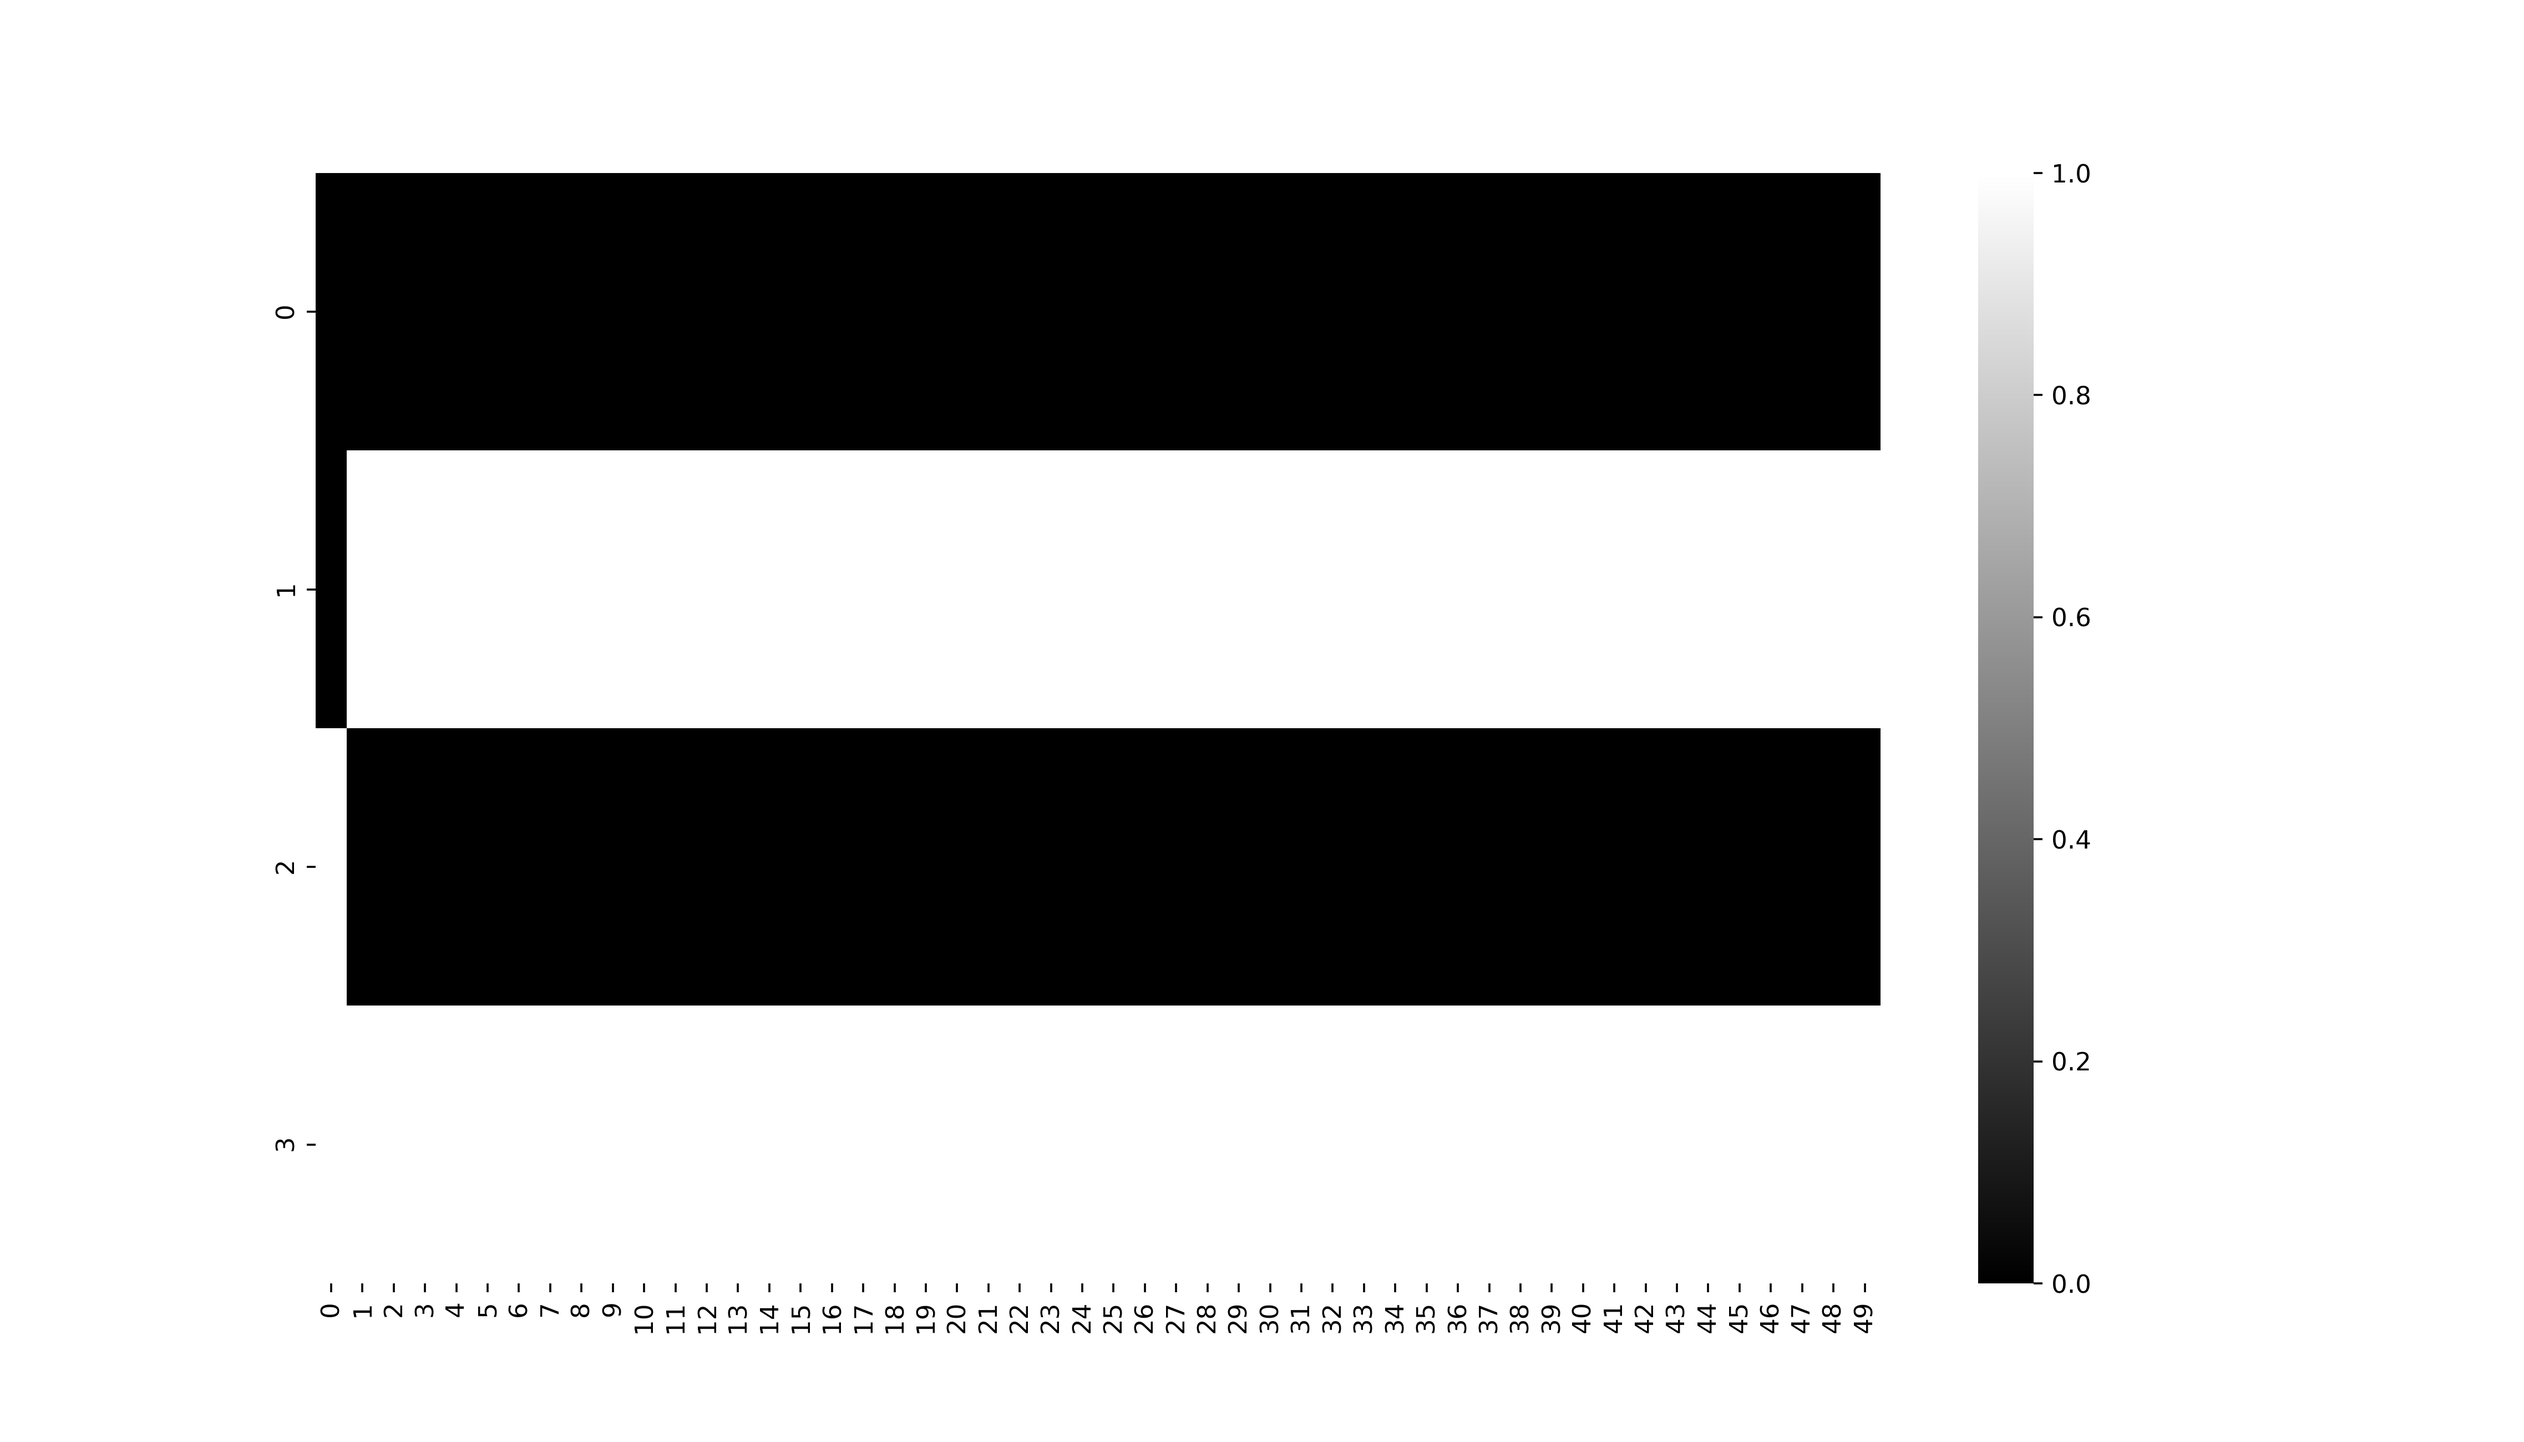
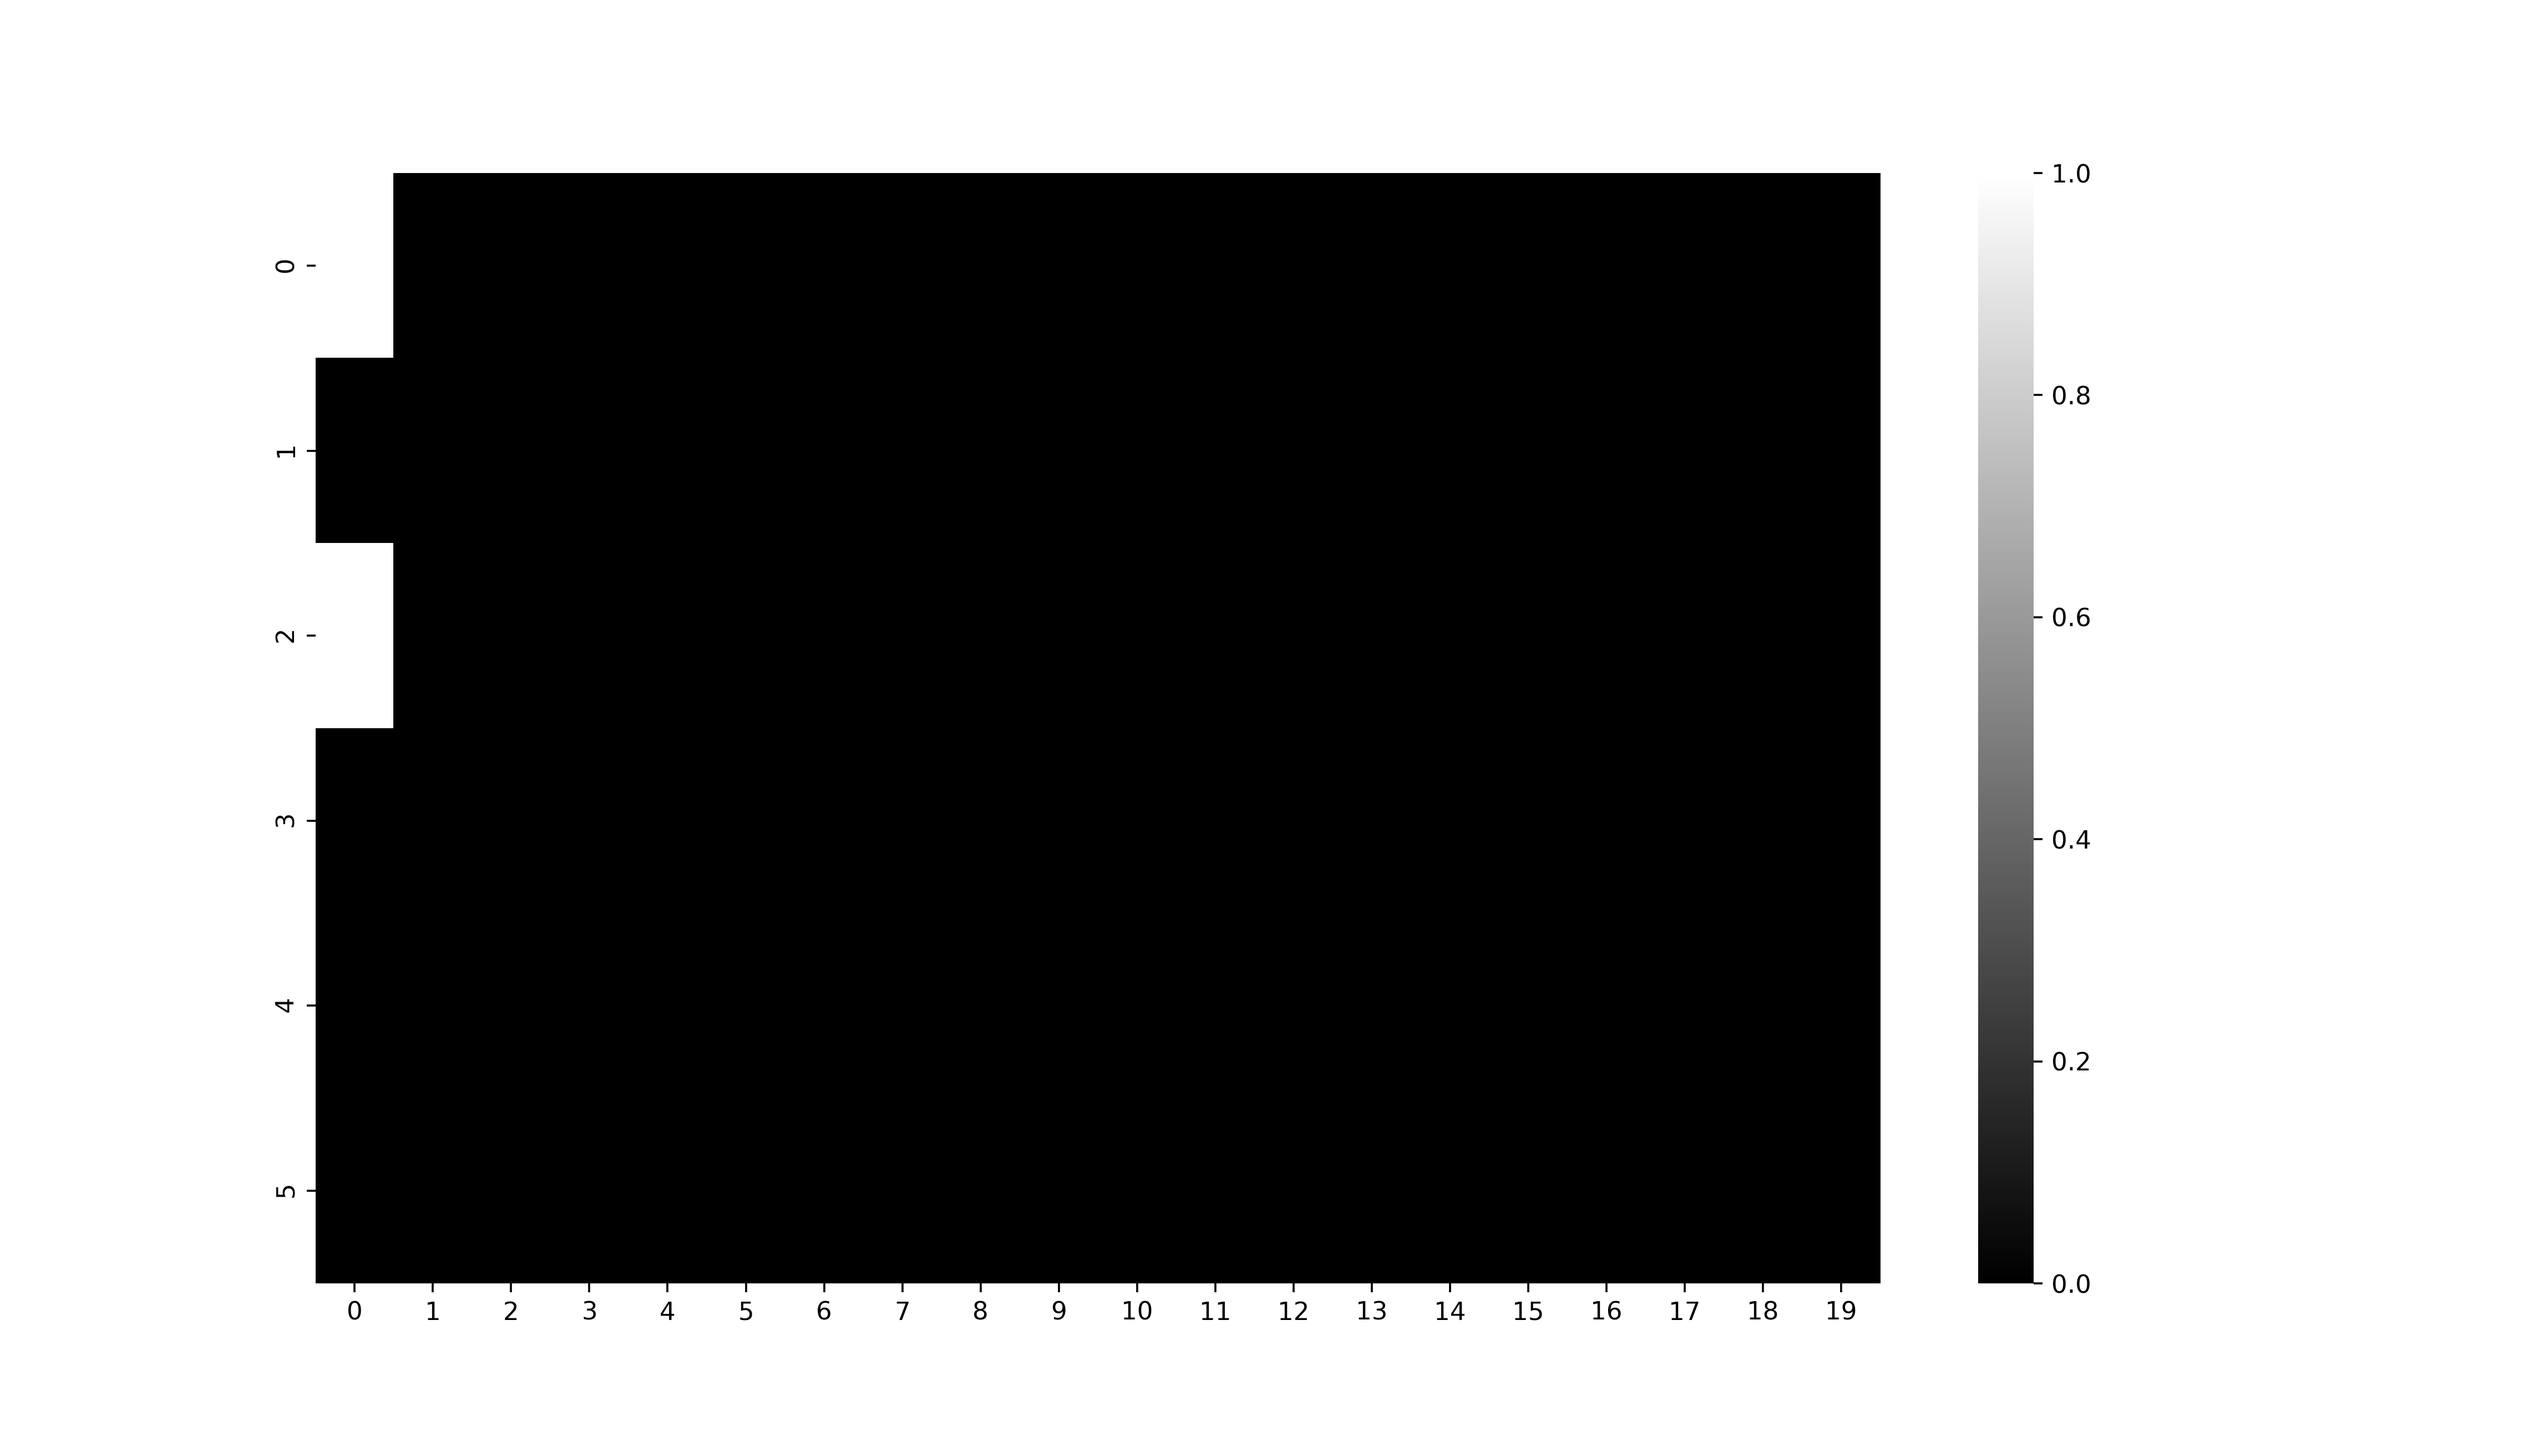
create

Changed region(s): [[0.1248, 0.3115, 0.749, 0.9346], [0.1248, 0.0935, 0.156, 0.2492]]

diff --git a/network_construction.py b/network_construction.py
@@ -1,22 +1,32 @@
 import numpy as np
 from Model.genmodel import GenerativeModel
 from Model.agent import Agent
-from Model.network_tools import create_multiagents
+from Model.network_tools import create_multiagents, clip_edges, connect_edgeless_nodes
 import networkx as nx
 from Model.pymdp.utils import obj_array, index_list_to_onehots, sample
 from Model.pymdp.maths import spm_dot, dot_likelihood, softmax
 import seaborn as sns
 from matplotlib import pyplot as plt
 
-N = 6 # total number of agents
+N = 10 # total number of agents
 idea_levels = 2 # the levels of beliefs that agents can have about the idea (e.g. 'True' vs. 'False', in case `idea_levels` ==2)
 num_H = 2 #the number of hashtags, or observations that can shed light on the idea
 # num_H = 3 #the number of hashtags, or observations that can shed light on the idea
 
 # G = nx.complete_graph(N)
-G = nx.fast_gnp_random_graph(N, 0.2)
+G = nx.fast_gnp_random_graph(N, 0.25)
 
-G, agents_dict = create_multiagents(G, N = N)
+# Method 1 for cleaning the graph: keep regenerating the graph as long as its not connected. once the graph is connected, we know everyone has at least one edge
+# while not nx.is_connected(G):
+#     G = nx.fast_gnp_random_graph(N, 0.5)
+
+# Method 2 for cleaning the graph: this doesn't ensure connectedness, but rather just ensures that everyone has at least TWO edges 
+G, _ = clip_edges(G, max_degree = 4)
+G = connect_edgeless_nodes(G)
+
+print(list(G.degree()))
+
+G, agents_dict = create_multiagents(G, N)
 for n in range(N):
     agents_dict[n]['idea_mapping_params']['h_idea_mapping'] = np.eye(num_H)
 
@@ -33,7 +43,6 @@ def agent_loop(agent, observations = None, initial = False):
         policy = agent.infer_policies(qs)
         action = agent.sample_action()
     return action
-
 
 actions = []
 agents = []
@@ -71,7 +80,7 @@ for agent in agents:
 
 initial = True
 all_actions = []
-while timestep < 50:
+while timestep < 20:
     actions = [agent_loop(agents[i], observations[i], initial) for i in range(len(agents))]
     all_actions.append(actions)
     initial = False
@@ -106,9 +115,9 @@ while timestep < 50:
     timestep += 1
 
 
-tweet_history = np.zeros((N, 50))
+tweet_history = np.zeros((N, 20))
 
-for t in range(50):
+for t in range(20):
     for n in range(4):
         tweet_history[n,t] = all_actions[t][n][-2]
 

diff --git a/Model/network_tools.py b/Model/network_tools.py
@@ -1,5 +1,6 @@
 import numpy as np
 import networkx as nx
+import random
 
 from .agent import Agent
 
@@ -58,3 +59,50 @@ def create_multiagents(G, N , idea_levels = 2, num_H = 2, precision_params = Non
 
     return G, agents_dict
 
+def connect_edgeless_nodes(G):
+    """
+    This function ensures there are no nodes with only 1 edge in the graph
+    """
+
+    for node_i in G.nodes():
+        connected = [target for (source, target) in G.edges(node_i)]
+        while len(connected) <= 1:
+            candidate_additions = [n_i for (n_i) in G.nodes()]
+            candidate_additions.pop(node_i)
+            addition = random.choice(candidate_additions)
+            G.add_edge(node_i,addition)
+            print('\tEdge added:\t %d -- %d'%(node_i, addition))
+            connected = [target for (source, target) in G.edges(node_i)]
+    
+    return G
+
+def clip_edges(G, max_degree = 10):
+    """
+    This function iteratively removes edges from nodes that have more than max_degree edges
+    """
+    single_edge_node = False 
+
+    for node_i in G.nodes():
+        connected = [target for (source, target) in G.edges(node_i)]
+        while G.degree(node_i) > max_degree:
+            
+            # list of the numbers of edges of each node connected to our considered node
+            deg_of_neighbors = np.zeros(len(connected))
+
+            for idx,neighbor_i in enumerate(connected):
+                # this gets the neighbors of the neighbor of node_i we're currently considering (namely, neighbor_i)
+                deg_of_neighbors[idx] = G.degree(neighbor_i)
+            
+            if np.any(deg_of_neighbors > 2):
+                idx = np.where(deg_of_neighbors > 2)[0]
+                remove = connected[random.choice(idx)]
+            else:
+                # you'll have to remove a random edge anyway and run 'connect_edgeless_nodes' afterwards
+                remove = random.choice(connected)
+                single_edge_node = True
+            G.remove_edge(node_i,remove)
+            connected.remove(remove)
+  
+            print('\tEdge removed:\t %d -- %d'%(node_i, remove))
+
+    return G, single_edge_node
